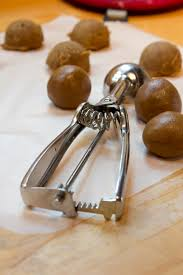
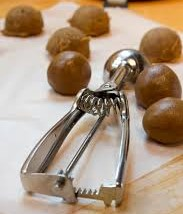
added activity to module 3

diff --git a/module3/topic-3-activity.html b/module3/topic-3-activity.html
@@ -13,7 +13,7 @@
 		<div id="header" class="container">
 				<div class="row">
 					<div class="col-sm-6">
-					<h1>Oven Activity</h1>
+					<h1>Baking Equipment Activity</h1>
 					</div>
 					<div class="col-sm-6" id="pageimage">
 					<img src="images/Baking Tins.jpg" title="Baking Tins" alt="Baking Tins"style="max-height:200px">
@@ -34,7 +34,7 @@
 						<li id="second"><a href="topic-2.html">Baking Fundamentals</a></li>
 						<li id="third"><a href="topic-2-activity.html">Conversion Activity</a>
 						<li id="fourth"><a href="topic-3.html">Intro to Ovens</a></li>
-						<li id="fifth"><a href="topic-3-activity.html">Oven Activity</a>
+						<li id="fifth"><a href="topic-3-activity.html">Baking Equipment</a>
 						<li id="sixth"><a href="topic-4.html">Adjusting the Recipe</a></li>
 						<li id="seventh"><a href="topic-5.html">Secret Tools of Bakers</a>
 						<li id="eighth"><a href="topic-5a.html">Whats in the Pantry </a></li>
@@ -52,10 +52,10 @@
 				<div class="flip-box">
  				    <div class="flip-box-inner">
     			   		<div class="flip-box-front">
-      						<h2>Front Side</h2>
+      						<h2><img src="images/bundt cake pan.jpg" title="Bundt Cake Pan" alt="Bundt Cake Pan" style="max-height:200px;max-width:300px;">Bundt Cake Pan</h2>
    						 </div>
     					<div class="flip-box-back">
-     						 <h2>Back Side</h2>
+     						 <h2>A Bundt Cake Pan is used to create a ring shaped cake. The shape is inspired by a traditional European cake known as Gugelhupf. </h2>
     					</div>
  				   </div>
 				</div>
@@ -64,10 +64,10 @@
 				<div class="flip-box">
  				    <div class="flip-box-inner">
     			   		<div class="flip-box-front">
-      						<h2>Front Side</h2>
+      						<h2><img src="images/cookie scoop.jpg" title="Cookie Scoop" alt="Cookie Scoop" style="max-height:200px;max-width:300px;"></br>Cookie Scoop</h2>
    						 </div>
     					<div class="flip-box-back">
-     						 <h2>Back Side</h2>
+     						 <h2>A cookie scoop is about the size of a dinner spoon. The stainless steel scoop is used to make perfect cookie balls.</h2>
     					</div>
  				   </div>
 				</div>
@@ -76,10 +76,10 @@
 				<div class="flip-box">
  				    <div class="flip-box-inner">
     			   		<div class="flip-box-front">
-      						<h2>Front Side</h2>
+      						<h2><img src="images/dough.jpg" title="Cookie Cutter" alt="Cookie Cutter" style="max-height:200px;max-width:300px;">Cookie Cutter</h2>
    						 </div>
     					<div class="flip-box-back">
-     						 <h2>Back Side</h2>
+     						 <h2>Cookie Cutters have sharp edges for cutting cookie dough into a shapes for decoratind.</h2>
     					</div>
  				   </div>
 				</div>
@@ -88,10 +88,10 @@
 				<div class="flip-box">
  				    <div class="flip-box-inner">
     			   		<div class="flip-box-front">
-      						<h2>Front Side</h2>
+      						<h2><img src="images/pastry brush.jpg" title="Pastry Brush" alt="Pastry Brush" style="max-height:200px;max-width:300px;">Pastry Brush</h2>
    						 </div>
     					<div class="flip-box-back">
-     						 <h2>Back Side</h2>
+     						 <h2>Use the pastry brush to spread butter, oil or glaze on food.Brushes can be of natural fiber or silicone.</h2>
     					</div>
  				   </div>
 				</div>
@@ -100,10 +100,10 @@
 				<div class="flip-box">
  				    <div class="flip-box-inner">
     			   		<div class="flip-box-front">
-      						<h2>Front Side</h2>
+      						<h2><img src="images/muffin pan.jpg" title="Muffin Pan" alt="Muffin Pan" style="max-height:200px;max-width:300px;">Muffin Pan</h2>
    						 </div>
     					<div class="flip-box-back">
-     						 <h2>Back Side</h2>
+     						 <h2>A muffin pan is a mold in which muffins or cupcakes are baked. A single cup within a regular muffin tin is 3 1⁄2 ounces and most often has room for 12 muffins.</h2>
     					</div>
  				   </div>
 				</div>
@@ -112,10 +112,10 @@
 				<div class="flip-box">
  				    <div class="flip-box-inner">
     			   		<div class="flip-box-front">
-      						<h2>Front Side</h2>
+      						<h2><img src="images/mixing bowls 2.jpg" title="Mixing Bowls" alt="Mixing Bowls" style="max-height:200px;max-width:300px;">Mixing Bowls</h2>
    						 </div>
     					<div class="flip-box-back">
-     						 <h2>Back Side</h2>
+     						 <h2>Mixing Bowls are deep bowls that are great for mixing ingreadients. Bowls are made in glass, ceramic, plastic, and stainless steel and are often sold is sets of three or more. </h2>
     					</div>
  				   </div>
 				</div>
@@ -124,10 +124,10 @@
 				<div class="flip-box">
  				    <div class="flip-box-inner">
     			   		<div class="flip-box-front">
-      						<h2>Front Side</h2>
+      						<h2><img src="images/spatulas.jpg" title="Spatulas" alt="Spatulas" style="max-height:200px;max-width:300px;">Spatulas</h2>
    						 </div>
     					<div class="flip-box-back">
-     						 <h2>Back Side</h2>
+     						 <h2>Spatulas often made of silicone and resembling a knife with a broad flexible blade that is used mostly for spreading or mixing soft substances. The long handle and a wide blades are used for scraping batter from bowls or for lifting and flipping food.</h2>
     					</div>
  				   </div>
 				</div>
@@ -136,10 +136,10 @@
 				<div class="flip-box">
  				    <div class="flip-box-inner">
     			   		<div class="flip-box-front">
-      						<h2>Front Side</h2>
+      						<h2><img src="images/cooling rack 2.jpg" title="Cooling Rack" alt="Cooling Rack" style="max-height:200px;max-width:300px;">Cooling Rack</h2>
    						 </div>
     					<div class="flip-box-back">
-     						 <h2>Back Side</h2>
+     						 <h2>Cooling Racks are made from a tight grid of metal wire that allows air to circulate freely to cool baked goods, and to prevent them getting soggy from condensation.</h2>
     					</div>
  				   </div>
 				</div>
@@ -148,10 +148,10 @@
 				<div class="flip-box">
  				    <div class="flip-box-inner">
     			   		<div class="flip-box-front">
-      						<h2>Front Side</h2>
+      						<h2><img src="images/metal pan.jpg" title="Loaf Pan" alt="Loaf Pan" style="max-height:200px;max-width:300px;">Loaf Pan</h2>
    						 </div>
     					<div class="flip-box-back">
-     						 <h2>Back Side</h2>
+     						 <h2>A loaf pan is a long deep pan or dish used for baking bread or cake.</h2>
     					</div>
  				   </div>
 				</div>

diff --git a/module3/topic-4.html b/module3/topic-4.html
@@ -34,7 +34,7 @@
 						<li id="second"><a href="topic-2.html">Baking Fundamentals</a></li>
 						<li id="third"><a href="topic-2-activity.html">Conversion Activity</a>
 						<li id="fourth"><a href="topic-3.html">Intro to Ovens</a></li>
-						<li id="fifth"><a href="topic-3-activity.html">Oven Activity</a>
+						<li id="fifth"><a href="topic-3-activity.html">Baking Equipment</a>
 						<li id="sixth"><a href="topic-4.html">Adjusting the Recipe</a></li>
 						<li id="seventh"><a href="topic-5.html">Secret Tools of Bakers</a>
 						<li id="eighth"><a href="topic-5a.html">Whats in the Pantry </a></li>
@@ -89,14 +89,7 @@
 					<h4>Liquid</h4>
 					<p>Increase by 1 to 2 tablespoons at 3,000 feet. Increase by 1 1/2 teaspoons for each additional 1,000 feet.</p> 
 
-					<h3>Doubling</h3>
-					<p> Most ingredients, you would just “double” how much each is. For example- ¾ water if doubling, then it would be 1 2/4 of water. There is an exception though…baking powder and baking soda are used when there is an acidic ingredient.</p> 
-					<ul style="list-style-type:none">
-					<li>&#9733 1 - 1 1/4 teaspoon baking powder per cup of all-purpose flour</li>
-					<li>&#9733 1/4 teaspoon baking soda per cup of all-purpose flour</li>
-					</ul>
-				<p>It’s also best to not substitute ingredients when doubling, if you haven’t before.</p>
-				<p>Make sure to cool your baking sheets in between baking batches so that the butter doesn’t melt and affect the texture of the cookies.</p>
+					
 					
 					</div>						
 								<div class="col-sm-6">
@@ -268,6 +261,14 @@
       				</tr>
       		</tbody>
   			</table>
+			<h3>Doubling</h3>
+					<p> Most ingredients, you would just “double” how much each is. For example- ¾ water if doubling, then it would be 1 2/4 of water. There is an exception though…baking powder and baking soda are used when there is an acidic ingredient.</p> 
+					<ul style="list-style-type:none">
+					<li>&#9733 1 - 1 1/4 teaspoon baking powder per cup of all-purpose flour</li>
+					<li>&#9733 1/4 teaspoon baking soda per cup of all-purpose flour</li>
+					</ul>
+				<p>It’s also best to not substitute ingredients when doubling, if you haven’t before.</p>
+				<p>Make sure to cool your baking sheets in between baking batches so that the butter doesn’t melt and affect the texture of the cookies.</p>
 			</div>
 			</div>	
 			</div>

diff --git a/module3/topic-3.html b/module3/topic-3.html
@@ -34,7 +34,7 @@
 						<li id="second"><a href="topic-2.html">Baking Fundamentals</a></li>
 						<li id="third"><a href="topic-2-activity.html">Conversion Activity</a>
 						<li id="fourth"><a href="topic-3.html">Intro to Ovens</a></li>
-						<li id="fifth"><a href="topic-3-activity.html">Oven Activity</a>
+						<li id="fifth"><a href="topic-3-activity.html">Baking Equipment</a>
 						<li id="sixth"><a href="topic-4.html">Adjusting the Recipe</a></li>
 						<li id="seventh"><a href="topic-5.html">Secret Tools of Bakers</a>
 						<li id="eighth"><a href="topic-5a.html">Whats in the Pantry </a></li>
@@ -99,14 +99,8 @@
 					</div>
 					</div>
 						
-				<div class="container" id="misc">
-				<div class="row">
-					<div class="col-sm-12">
-					<h3>Misc multimedia content</h3>
-					<p>Maecenas vestibulum finibus tortor, sit amet consectetur arcu tincidunt non. Ut ut fermentum urna, id bibendum massa. Maecenas ultrices vitae mi hendrerit pulvinar. Pellentesque sed metus sed metus bibendum volutpat. Integer aliquet quis leo non iaculis. Nam sit amet ligula viverra, vehicula lorem in, pellentesque neque. Vivamus sit amet tellus mi. Etiam tincidunt, nisi a finibus gravida, nibh tortor eleifend tellus, ac mollis nisl ex vitae magna. Etiam at mi sed augue pulvinar feugiat. Morbi nec ipsum elementum, lobortis nulla lacinia, tincidunt velit. Aliquam molestie, tellus eu imperdiet vehicula, tortor diam tempus nisl, eu mollis ex felis eget odio. Donec condimentum arcu felis, eu tincidunt justo placerat placerat. Vestibulum non condimentum odio. Aenean id elit dolor.</p>
-					</div>
-				</div>
-				</div>
+				
+				
 				
 				<div class="container" id="videos">
 					<div class="row">

diff --git a/module3/topic-2.html b/module3/topic-2.html
@@ -34,7 +34,7 @@
 						<li id="second"><a href="topic-2.html">Baking Fundamentals</a></li>
 						<li id="third"><a href="topic-2-activity.html">Conversion Activity</a>
 						<li id="fourth"><a href="topic-3.html">Intro to Ovens</a></li>
-						<li id="fifth"><a href="topic-3-activity.html">Oven Activity</a>
+						<li id="fifth"><a href="topic-3-activity.html">Baking Equipment</a>
 						<li id="sixth"><a href="topic-4.html">Adjusting the Recipe</a></li>
 						<li id="seventh"><a href="topic-5.html">Secret Tools of Bakers</a>
 						<li id="eighth"><a href="topic-5a.html">Whats in the Pantry </a></li>
@@ -124,20 +124,13 @@
 			</div>
 			
 			
-				<div class="container" id="misc">
-				<div class="row">
-					<div class="col-sm-12">
-					<h3>Misc multimedia content</h3>
-					<p>add links here</p>
-					</div>
-				</div>
-				</div>
+					
 				
 				<div class="container" id="videos">
 					<div class="row">
 					<div class="col-sm-6">
-					<h3>Video Content goes here</h3>
-					<p> Welcome to the course</p>
+					<h3>Check out these Links</h3>
+					<p> Add Links here</p>
 					</div>
 					<div class="col-sm-6"> 
 					<h3> What's Next?</h3>
@@ -149,7 +142,7 @@
   			<div class="col-sm-12">
   			<button type="button" class="btn btn-info" data-toggle="collapse" data-target="#transcript">Video Transcript</button>
   			<div id="transcript" class="collapse">
-    			Video transcript goes here
+    			<p> Audio transcript goes here<p>
     			</div>
   			</div>
 			</div>

diff --git a/module3/certificate.html b/module3/certificate.html
@@ -34,7 +34,7 @@
 						<li id="second"><a href="topic-2.html">Baking Fundamentals</a></li>
 						<li id="third"><a href="topic-2-activity.html">Conversion Activity</a>
 						<li id="fourth"><a href="topic-3.html">Intro to Ovens</a></li>
-						<li id="fifth"><a href="topic-3-activity.html">Oven Activity</a>
+						<li id="fifth"><a href="topic-3-activity.html">Baking Equipment</a>
 						<li id="sixth"><a href="topic-4.html">Adjusting the Recipe</a></li>
 						<li id="seventh"><a href="topic-5.html">Secret Tools of Bakers</a>
 						<li id="eighth"><a href="topic-5a.html">Whats in the Pantry </a></li>

diff --git a/module3/hotspots.html b/module3/hotspots.html
@@ -36,7 +36,7 @@
 						<li id="second"><a href="topic-2.html">Baking Fundamentals</a></li>
 						<li id="third"><a href="topic-2-activity.html">Conversion Activity</a>
 						<li id="fourth"><a href="topic-3.html">Intro to Ovens</a></li>
-						<li id="fifth"><a href="topic-3-activity.html">Oven Activity</a>
+						<li id="fifth"><a href="topic-3-activity.html">Baking Equipment</a>
 						<li id="sixth"><a href="topic-4.html">Adjusting the Recipe</a></li>
 						<li id="seventh"><a href="topic-5.html">Secret Tools of Bakers</a>
 						<li id="eighth"><a href="topic-5a.html">Whats in the Pantry </a></li>

diff --git a/module3/quiz.html b/module3/quiz.html
@@ -35,7 +35,7 @@
 						<li id="second"><a href="topic-2.html">Baking Fundamentals</a></li>
 						<li id="third"><a href="topic-2-activity.html">Conversion Activity</a>
 						<li id="fourth"><a href="topic-3.html">Intro to Ovens</a></li>
-						<li id="fifth"><a href="topic-3-activity.html">Oven Activity</a>
+						<li id="fifth"><a href="topic-3-activity.html">Baking Equipment</a>
 						<li id="sixth"><a href="topic-4.html">Adjusting the Recipe</a></li>
 						<li id="seventh"><a href="topic-5.html">Secret Tools of Bakers</a>
 						<li id="eighth"><a href="topic-5a.html">Whats in the Pantry </a></li>

diff --git a/module3/recipe-activity2.html b/module3/recipe-activity2.html
@@ -34,7 +34,7 @@
 						<li id="second"><a href="topic-2.html">Baking Fundamentals</a></li>
 						<li id="third"><a href="topic-2-activity.html">Conversion Activity</a>
 						<li id="fourth"><a href="topic-3.html">Intro to Ovens</a></li>
-						<li id="fifth"><a href="topic-3-activity.html">Oven Activity</a>
+						<li id="fifth"><a href="topic-3-activity.html">Baking Equipment</a>
 						<li id="sixth"><a href="topic-4.html">Adjusting the Recipe</a></li>
 						<li id="seventh"><a href="topic-5.html">Secret Tools of Bakers</a>
 						<li id="eighth"><a href="topic-5a.html">Whats in the Pantry </a></li>

diff --git a/module3/topic-1.html b/module3/topic-1.html
@@ -34,7 +34,7 @@
 						<li id="second"><a href="topic-2.html">Baking Fundamentals</a></li>
 						<li id="third"><a href="topic-2-activity.html">Conversion Activity</a>
 						<li id="fourth"><a href="topic-3.html">Intro to Ovens</a></li>
-						<li id="fifth"><a href="topic-3-activity.html">Oven Activity</a>
+						<li id="fifth"><a href="topic-3-activity.html">Baking Equipment</a>
 						<li id="sixth"><a href="topic-4.html">Adjusting the Recipe</a></li>
 						<li id="seventh"><a href="topic-5.html">Secret Tools of Bakers</a>
 						<li id="eighth"><a href="topic-5a.html">Whats in the Pantry </a></li>

diff --git a/module3/topic-2-activity.html b/module3/topic-2-activity.html
@@ -35,7 +35,7 @@
 						<li id="second"><a href="topic-2.html">Baking Fundamentals</a></li>
 						<li id="third"><a href="topic-2-activity.html">Conversion Activity</a>
 						<li id="fourth"><a href="topic-3.html">Intro to Ovens</a></li>
-						<li id="fifth"><a href="topic-3-activity.html">Oven Activity</a>
+						<li id="fifth"><a href="topic-3-activity.html">Baking Equipment</a>
 						<li id="sixth"><a href="topic-4.html">Adjusting the Recipe</a></li>
 						<li id="seventh"><a href="topic-5.html">Secret Tools of Bakers</a>
 						<li id="eighth"><a href="topic-5a.html">Whats in the Pantry </a></li>

diff --git a/module3/topic-5.html b/module3/topic-5.html
@@ -34,7 +34,7 @@
 						<li id="second"><a href="topic-2.html">Baking Fundamentals</a></li>
 						<li id="third"><a href="topic-2-activity.html">Conversion Activity</a>
 						<li id="fourth"><a href="topic-3.html">Intro to Ovens</a></li>
-						<li id="fifth"><a href="topic-3-activity.html">Oven Activity</a>
+						<li id="fifth"><a href="topic-3-activity.html">Baking Equipment</a>
 						<li id="sixth"><a href="topic-4.html">Adjusting the Recipe</a></li>
 						<li id="seventh"><a href="topic-5.html">Secret Tools of Bakers</a>
 						<li id="eighth"><a href="topic-5a.html">Whats in the Pantry </a></li>

diff --git a/module3/topic-5a.html b/module3/topic-5a.html
@@ -34,7 +34,7 @@
 						<li id="second"><a href="topic-2.html">Baking Fundamentals</a></li>
 						<li id="third"><a href="topic-2-activity.html">Conversion Activity</a>
 						<li id="fourth"><a href="topic-3.html">Intro to Ovens</a></li>
-						<li id="fifth"><a href="topic-3-activity.html">Oven Activity</a>
+						<li id="fifth"><a href="topic-3-activity.html">Baking Equipment</a>
 						<li id="sixth"><a href="topic-4.html">Adjusting the Recipe</a></li>
 						<li id="seventh"><a href="topic-5.html">Secret Tools of Bakers</a>
 						<li id="eighth"><a href="topic-5a.html">Whats in the Pantry </a></li>
